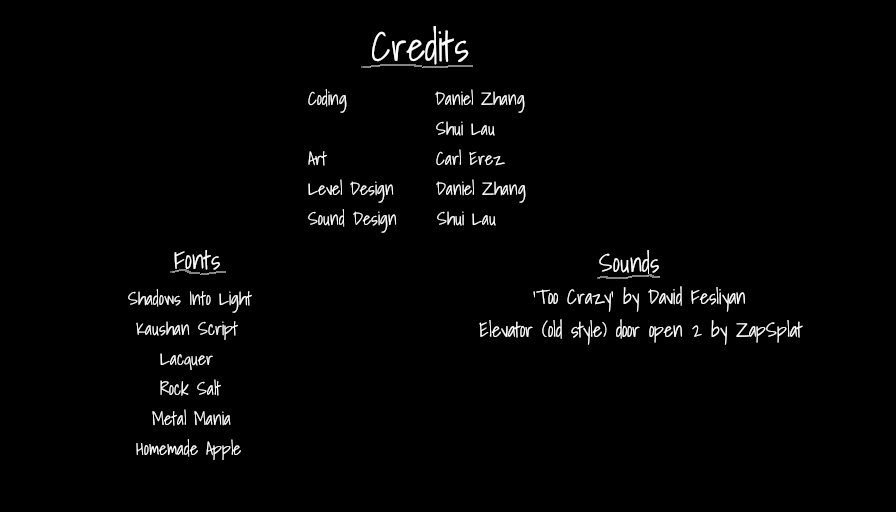
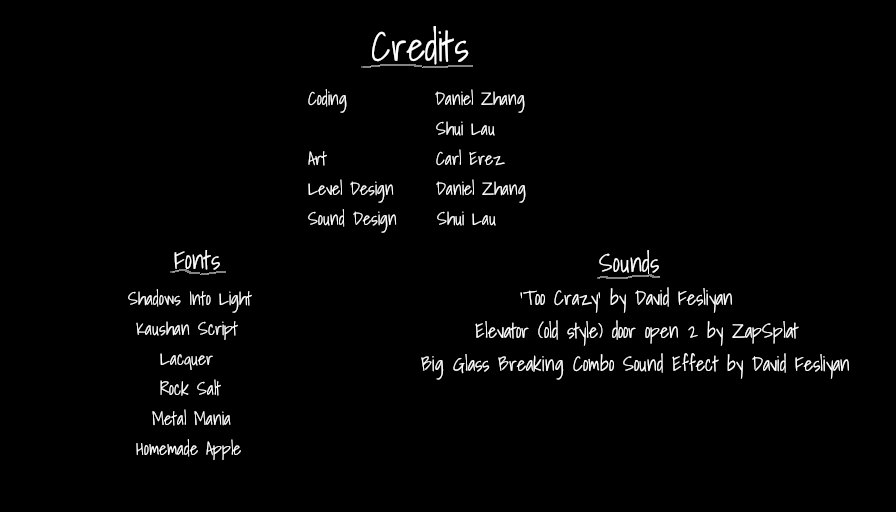
Final Changes

Changed region(s): [[0.4688, 0.625, 0.9688, 0.75], [0.5625, 0.5625, 0.8438, 0.5938]]

diff --git a/src/Scenes/ExitLevel.js b/src/Scenes/ExitLevel.js
@@ -9,7 +9,7 @@ class ExitLevel extends Phaser.Scene{
         //add soundFX for eating and drinking(not implemented yet) 
         this.scaleUp = this.sound.add('ScaleUp',{volume: 0.1});                                      
         this.scaleDown = this.sound.add('ScaleDown',{volume: 0.1});
-        this.glassbreaking = this.sound.add('GlassBreaking', {volume: 0.1});
+        this.glassbreaking = this.sound.add('GlassBreaking', {volume: 0.1});      //https://www.fesliyanstudios.com/royalty-free-sound-effects-download/glass-shattering-and-breaking-124
         //reserve variables for key inputs                                      
         keySPACE = this.input.keyboard.addKey(Phaser.Input.Keyboard.KeyCodes.SPACE);    
         keyE = this.input.keyboard.addKey(Phaser.Input.Keyboard.KeyCodes.E);
@@ -88,11 +88,11 @@ class ExitLevel extends Phaser.Scene{
     puzzleSolver(){
       switch(drugsTaken)
       {
-        case 6: this.hint.setFrame(1);
+        case 2: this.hint.setFrame(1);
         break;
-        case 10: this.hint.setFrame(2);
+        case 4: this.hint.setFrame(2);
         break;
-        case 12: this.hint.setFrame(3);
+        case 6: this.hint.setFrame(3);
         break;      
         default:
         break;

diff --git a/src/Scenes/LevelTwo.js b/src/Scenes/LevelTwo.js
@@ -8,7 +8,7 @@ class LevelTwo extends Phaser.Scene{
       //add soundFX for eating, drinking, door, and button
       this.scaleUp = this.sound.add('ScaleUp',{volume: 0.1});                                    
       this.scaleDown = this.sound.add('ScaleDown',{volume: 0.1});
-      this.doorSound = this.sound.add('doorOpening',{volume: 0.3}, false);
+      this.doorSound = this.sound.add('doorOpening',{volume: 0.3}, false);        //https://www.zapsplat.com/?s=elevator+door&post_type=music&sound-effect-category-id=
       //reserve variables for key inputs                            
       keySPACE = this.input.keyboard.addKey(Phaser.Input.Keyboard.KeyCodes.SPACE);    
       keyE = this.input.keyboard.addKey(Phaser.Input.Keyboard.KeyCodes.E);
@@ -169,11 +169,11 @@ class LevelTwo extends Phaser.Scene{
   puzzleSolver(){
     switch(drugsTaken)
     {
-      case 7:   this.hint.setFrame(1);
+      case 4:   this.hint.setFrame(1);
         break;
-      case 10:  this.hint.setFrame(2);  
+      case 7:  this.hint.setFrame(2);  
         break;
-      case 15:  this.hint.setFrame(3);  
+      case 10:  this.hint.setFrame(3);  
         break;      
       default:
         break;

diff --git a/src/main.js b/src/main.js
@@ -1,3 +1,11 @@
+/*                                          Trapped in Wonderland by SDC Collective 
+                                    Collaborators: Shui Lau, Daniel Zhang, Carl Erez
+                                              Date Completed May 7th, 2020
+            For our Scale and Distortion Game, we chose to utilize scale as our main theme to focus with a little bit of distortion on 
+        as a side theme. Our game's main mechanic focuses on scaling the size of Alice by taking drugs so that she can access certain 
+        parts of the map to solve the puzzle and escape the facility. Alice can shrink smaller to enter vents or grow bigger to move 
+        heavier boxes. The distortion theme is featured as taking too many drugs will cause Alice to hallucinate, allowing her to see 
+        mythical creatures and phenomenons as well as hints to passing each level. */
 let config = {                                                      //set configuration for phaser game
     type: Phaser.CANVAS,                                            //game window is 896 by 512
     render: {

diff --git a/src/Scenes/Menu.js b/src/Scenes/Menu.js
@@ -15,9 +15,9 @@ class Menu extends Phaser.Scene{
         //creating text image that are interactables
         let play = this.add.image(centerX, centerY + textSpacer, 'Play').setOrigin(0.5).setScale(0.5);
         let controls = this.add.image(centerX, centerY + textSpacer * 2, 'Controls').setOrigin(0.5).setScale(0.5);
-        let credits = this.add.image(centerX, centerY + textSpacer * 3, 'Credits').setOrigin(0.5).setScale(0.5);
+        let credits = this.add.image(centerX, centerY + textSpacer * 3, 'Credits').setOrigin(0.5).setScale(0.5);        //https://www.joshmorony.com/adding-custom-fonts-to-your-phaser-game/
         //sets those images to interactable
-        play.setInteractive();                      
+        play.setInteractive();                              //https://www.youtube.com/watch?v=OS7neDUUhPE
         controls.setInteractive();
         credits.setInteractive();
         //Over mouse hover, highlights the text, mouseclick transitions to different scene

diff --git a/src/Scenes/LevelOne.js b/src/Scenes/LevelOne.js
@@ -141,11 +141,11 @@ class LevelOne extends Phaser.Scene{
     puzzleSolver(){     
       switch(drugsTaken)
       {
-        case 7:   this.hint.setFrame(1);
+        case 6:   this.hint.setFrame(1);
           break;
-        case 10:  this.hint.setFrame(2); 
+        case 8:  this.hint.setFrame(2); 
           break;
-        case 15:  this.hint.setFrame(3);
+        case 10:  this.hint.setFrame(3);
           break;
         case 20:  this.pepe.setVisible(true);      
         default:

diff --git a/src/Scenes/LevelThree.js b/src/Scenes/LevelThree.js
@@ -119,11 +119,11 @@ class LevelThree extends Phaser.Scene{
     puzzleSolver(){
       switch(drugsTaken)
       {
-        case 20:  this.hint.setFrame(1); 
+        case 15:  this.hint.setFrame(1); 
           break;
-        case 25:  this.hint.setFrame(2);
+        case 18:  this.hint.setFrame(2);
           break;
-        case 30:  this.hint.setFrame(3);
+        case 23:  this.hint.setFrame(3);
           break;      
         default:
           break;

diff --git a/src/Scenes/LevelFour.js b/src/Scenes/LevelFour.js
@@ -271,11 +271,11 @@ class LevelFour extends Phaser.Scene{
     puzzleSolver(){
       switch(drugsTaken)
       {
-        case 25:  this.hint.setFrame(1);
+        case 13:  this.hint.setFrame(1);
           break;
-        case 30:  this.hint.setFrame(2);
+        case 18:  this.hint.setFrame(2);
           break;
-        case 40:  this.hint.setFrame(3);
+        case 23:  this.hint.setFrame(3);
           break; 
         default:
           break;

diff --git a/src/Scenes/LevelFive.js b/src/Scenes/LevelFive.js
@@ -258,11 +258,11 @@ class LevelFive extends Phaser.Scene{
   puzzleSolver(){
     switch(drugsTaken)
     {
-      case 30: this.hint.setFrame(1);
+      case 15: this.hint.setFrame(1);
       break;
-      case 40: this.hint.setFrame(2);
+      case 20: this.hint.setFrame(2);
       break;
-      case 45: this.hint.setFrame(3);
+      case 25: this.hint.setFrame(3);
       break;      
       default:
       break;
